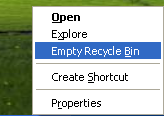
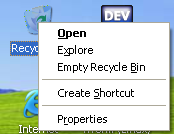
tools/eeepc: the Recycle Bin installed and checked
Repo 05e7ff0 is on the EeePC, with the two old, broken bins removed.
Deletes from the desktop and H: are listed with original location and date,
restore and empty work, and the desktop icon follows. The showcase pictures
are now from the machine.

tests/security-time.c measures what Wine 0120 costs on the Atom: reading the
security of the 879 entries of system32 takes a median 605 us each instead of
586 us.

diff --git a/tests/security-time.c b/tests/security-time.c
@@ -1,0 +1,52 @@
+/* Times reading the security of every entry of a folder, which Wine 0120 makes
+ * read an extended attribute as well.
+ *
+ *   security-time-test.exe [DIR [ROUNDS]]     DIR defaults to C:\windows\system32
+ *
+ * Prints the entries and the best round's time in total and per entry. Compare
+ * a wineserver started with WIN4WINE_EXTERNAL_SHELL=1 (0120 acts) with one
+ * started without it. */
+#include <windows.h>
+#include <stdio.h>
+#include <stdlib.h>
+
+int wmain(int argc, WCHAR **argv)
+{
+    const WCHAR *dir = argc > 1 ? argv[1] : L"C:\\windows\\system32";
+    int rounds = argc > 2 ? _wtoi(argv[2]) : 5, round;
+    static WCHAR names[8192][MAX_PATH];
+    static BYTE sd[8192];
+    WCHAR pattern[MAX_PATH];
+    WIN32_FIND_DATAW data;
+    LARGE_INTEGER frequency, start, end;
+    double best = 0;
+    int count = 0, failed = 0, i;
+    HANDLE find;
+
+    swprintf(pattern, MAX_PATH, L"%ls\\*", dir);
+    find = FindFirstFileW(pattern, &data);
+    if (find == INVALID_HANDLE_VALUE) { wprintf(L"%ls: error %lu\n", dir, GetLastError()); return 1; }
+    do {
+        if (!wcscmp(data.cFileName, L".") || !wcscmp(data.cFileName, L"..")) continue;
+        swprintf(names[count++], MAX_PATH, L"%ls\\%ls", dir, data.cFileName);
+    } while (count < 8192 && FindNextFileW(find, &data));
+    FindClose(find);
+
+    QueryPerformanceFrequency(&frequency);
+    for (round = 0; round < rounds; round++) {
+        DWORD needed;
+        double ms;
+
+        failed = 0;
+        QueryPerformanceCounter(&start);
+        for (i = 0; i < count; i++)
+            if (!GetFileSecurityW(names[i], OWNER_SECURITY_INFORMATION | DACL_SECURITY_INFORMATION, sd, sizeof(sd), &needed))
+                failed++;
+        QueryPerformanceCounter(&end);
+        ms = (end.QuadPart - start.QuadPart) * 1000.0 / frequency.QuadPart;
+        if (!round || ms < best) best = ms;
+    }
+    wprintf(L"%ls: %d entries, %d failed, best of %d: %.1f ms, %.1f us each\n", dir, count, failed, rounds, best,
+            count ? best * 1000 / count : 0);
+    return failed != 0;
+}

diff --git a/tools/eeepc/LOG.md b/tools/eeepc/LOG.md
@@ -39,7 +39,7 @@ The machine against a fresh Debian 13 (trixie) install. Last checked on the mach
 | X driver | `xserver-xorg-video-intel 2:2.99.917+git20210115-1+w4w1`, built by [xorg-intel/build.sh](xorg-intel/build.sh) with `sna-gen3-dri3.patch`; **held** with `apt-mark hold` | DRI3 on the GMA 3150, so OpenGL runs on the GPU instead of llvmpipe | 2026-11-26 |
 | X config | `/etc/X11/xorg.conf.d/20-intel.conf`: `Driver "intel"`, `Option "DRI" "3"` | The patched driver gives gen3 DRI3 only when asked | 2026-11-26 |
 | X config | `/etc/X11/xorg.conf.d/10-nodpms.conf`: blanking, standby, suspend and off times 0; `DPMS` false on LVDS1 | The screen never blanks (see "Not yet explained") | ? |
-| Wine | `.local/wine-install` built with ntsync (repo 0a46acc), patches up to Wine 0166 (repo 0780637) | Wine uses `/dev/ntsync` for its synchronization instead of asking the wineserver; 0157 batches immediate mode GL calls; 0158 and 0159 are for the screen savers and the lock screen; 0160 gives the Linux columns each file's mode and owner; 0161 keeps copy and paste working after a folder window is closed; 0162 to 0164 are for mounted disc images; 0165 keeps Explorer from freezing when its windows redraw at once; 0166 keeps the desktop taking clicks after a program ends while it holds the mouse | 2026-11-28 |
+| Wine | `.local/wine-install` built with ntsync (repo 0a46acc), patches up to Wine 0166 (repo 05e7ff0) | Wine uses `/dev/ntsync` for its synchronization instead of asking the wineserver; 0157 batches immediate mode GL calls; 0158 and 0159 are for the screen savers and the lock screen; 0160 gives the Linux columns each file's mode and owner; 0161 keeps copy and paste working after a folder window is closed; 0162 to 0164 are for mounted disc images; 0165 keeps Explorer from freezing when its windows redraw at once; 0166 keeps the desktop taking clicks after a program ends while it holds the mouse; 0120 keeps the access lists of files in the XP session too, so the Recycle Bin works | 2026-11-28 |
 | Display manager | LightDM, `/etc/lightdm/lightdm.conf.d/95-xp-greeter.conf`: `greeter-session=xp-greeter`, `user-session=xp-shell`; the greeter's code and XP files in `/usr/local/share/win4wine/greeter` | The XP logon screen and the win4wine session (win4wine's install) | 2026-11-23, reinstalled 2026-11-27 |
 | PAM | `/etc/pam.d/win4wine-lock` (`@include common-auth`, `@include common-account`), installed by `greeter/install.sh` | The session's lock screen checks the password with it | 2026-11-27 |
 | Session config | `~/.config/win4wine/session.json`: wine, prefix, `en_US.UTF-8`. `session.json.before-trace` is the copy kept while a `+server` trace was on | | 2026-11-23 |
@@ -78,6 +78,25 @@ Found on the machine with no reason recorded. Add the reason, or undo the settin
   Left from the first desktop setup; not needed by the session.
 
 ## Entries
+
+### 2026-11-28: a working Recycle Bin (Wine 0120 for the XP session) installed
+
+- **What** (logged off):
+  - removed the two old, broken bins: `rm -r ~/win4wine/.local/prefix/drive_c/RECYCLER ~/RECYCLER`. They held
+    `New Microsoft Word Document.doc` (10 KB, from the desktop) and `Shortcut to Book1.lnk` (from H:);
+  - `git fetch fork && git checkout -B master fork/master` (982cb4c to 05e7ff0); on the development machine
+    `wine/container-build.sh --deploy 192.168.1.9` (the Wine with 0166 is now `.local/wine-install-old`);
+  - copies of the prefix's `*.reg`, `system.ini`, `.xp-extras` and `.xp-registry-version` in
+    `.local/backup-2026-11-28-recyclebin/`, then in `xvfb-run` `prefix/extras.py`, `session/linux_apps.py` and
+    `xp-explorer/scripts/pins.py` (355 s), then `wineserver -k` and `-w`;
+  - at the next logon the session applied registry profile 27 (`prefix/registry.py`).
+- **Why:** deleted files did not show in the Recycle Bin ([plan](../../plans/recycle-bin.md)).
+- **Result:** in the session, deletes from the desktop and H: listed, restored and emptied; the icon switches between
+  full and empty; `RECYCLER` is back on C: and in the home folder, with the access list stored. Reading a file's security
+  costs about 3% more ([README](README.md#recycle-bin)). My Documents on the desktop still does not open (an older bug).
+- **Undo:** logged off, `mv .local/wine-install .local/wine-install-0120 && mv .local/wine-install-old .local/wine-install`,
+  copy the backup's `*.reg`, `.xp-extras` and `.xp-registry-version` back into `.local/prefix` and `system.ini` into
+  `drive_c/windows`, and `git checkout -B master 982cb4c`. The two removed files cannot be brought back.
 
 ### 2026-11-28: Wine 0166 (the desktop takes clicks after a program ends holding the mouse) installed
 

diff --git a/plans/recycle-bin.md b/plans/recycle-bin.md
@@ -1,8 +1,8 @@
 # Plan: a working Recycle Bin (BUGS.md "Recycle bin not working")
 
-Status (2026-11-28): built and checked on the development machine (steps 1 to 4), not yet on the EeePC (steps 5 and 6).
-Pictures: [docs/showcase.md](../docs/showcase.md#recycle-bin). One decision is open:
-[the existing bins on the EeePC](#open-the-existing-bins-on-the-eeepc).
+Status (2026-11-28): done and on the EeePC (repo 05e7ff0). Pictures: [docs/showcase.md](../docs/showcase.md#recycle-bin).
+Not checked: a USB stick (under [Risks](#risks)), items surviving a logoff on the EeePC (checked on the bench), and the
+Office XP and Visual Studio 6 installs.
 
 Goal: a file deleted in Explorer or on the desktop shows in the Recycle Bin, the icon turns full, and Restore and Empty work,
 with no warning, on drive C: and drive H:.
@@ -40,10 +40,10 @@ with no warning, on drive C: and drive H:.
   sets one, now reads that DACL back, as on Windows. The Unix mode is set as before. Files created without a security
   descriptor (almost all) are not touched and get no extended attribute.
 
-## Open: the existing bins on the EeePC
+## The existing bins on the EeePC
 
 The folders XP made so far carry no stored DACL, so after the fix XP still shows the warning once per drive. Answering Yes
-empties that drive's bin and makes the folder again, this time with the DACL kept.
+empties that drive's bin and makes the folder again, this time with the DACL kept. **Decided (2026-11-28): A**, done.
 
 | | What happens | Lost |
 |---|---|---|
@@ -69,6 +69,15 @@ bothers the visitors' view of the home folder, option B or C of the XDG folders 
   task link, no settings under Properties, an icon that never changed). Added to `prefix/registry.py` (profile 27), which the
   session's staging applies at the next start.
 - With bins removed by hand, the icon stays as it was until the next logon, delete or Empty.
+
+## What the EeePC showed (2026-11-28)
+
+- Deletes from the desktop and from H:\ show in the bin with original location and date, Restore all items brings both back,
+  Empty on the icon's menu removes them, and the icon follows. Both new bins carry the stored access list.
+- Step 5, measured differently: instead of timing Explorer, [tests/security-time.c](../tests/security-time.c) reads the
+  security of all of `system32` with and without 0120 acting: about 19 µs (3%) more per read
+  ([numbers](../tools/eeepc/README.md#recycle-bin)).
+- Seen again, not part of this fix: My Documents on the desktop does not open (an older bug, in the local BUGS.md).
 
 ## Steps
 

diff --git a/tools/eeepc/README.md b/tools/eeepc/README.md
@@ -221,3 +221,18 @@ Measured 2026-11-27, `udisks2` 2.10.1, the images in `~/Images` (300 to 600 MB, 
 - **Idle session**, 60 s, the desktop only: 4.9% of one logical CPU and 177 wakeups/s before `udisks2` was installed, 6.4%
   and 237 after the tests (xp-explorer 2.4% and 28/s before, 3.7% and 55/s after; `udisksd` 0.0%). The second sample was
   taken after some twenty mounts in that session, so the two are not like for like; **not yet repeated on a fresh logon**.
+
+## Recycle Bin
+
+Wine 0120 reads an extended attribute whenever a file's security is read. Measured 2026-11-28 (repo 05e7ff0), logged off,
+governor `schedutil`, with [tests/security-time.c](../../tests/security-time.c): owner and DACL of all 879 entries of
+`C:\windows\system32` (as a 32-bit program sees it), best of 7 rounds, in a wineserver started without and with
+`WIN4WINE_EXTERNAL_SHELL`, three times each, in turn.
+
+| | Without (0120 idle) | With |
+|---|---|---|
+| All entries, three runs | 463, 515, 525 ms | 509, 531, 536 ms |
+| Per entry, median | 586 µs | 605 µs |
+
+About 19 µs (3%) more per read, near the spread between runs. How often Explorer reads security while it lists a folder was
+not measured.

diff --git a/docs/showcase.md b/docs/showcase.md
@@ -64,9 +64,9 @@ good. The desktop icon shows whether it is empty, and its menu has Empty Recycle
 
 <img src="images/showcase/recycle-bin.png" alt="The Recycle Bin window in Details view, listing two deleted files with their original location and the date" width="800" />
 
-<img src="images/showcase/recycle-bin-full.png" alt="The desktop's Recycle Bin icon, full" width="104" /> <img src="images/showcase/recycle-bin-empty.png" alt="The desktop's Recycle Bin icon, empty" width="104" /> <img src="images/showcase/recycle-bin-menu.png" alt="The Recycle Bin's context menu with Empty Recycle Bin" width="164" />
+<img src="images/showcase/recycle-bin-full.png" alt="The desktop's Recycle Bin icon, full" width="76" /> <img src="images/showcase/recycle-bin-empty.png" alt="The desktop's Recycle Bin icon, empty" width="76" /> <img src="images/showcase/recycle-bin-menu.png" alt="The Recycle Bin's context menu with Empty Recycle Bin" width="174" />
 
-*Bench, 2026-11-28.*
+*EeePC, 2026-11-28 (repo 05e7ff0).*
 
 ## Not pictured yet
 
